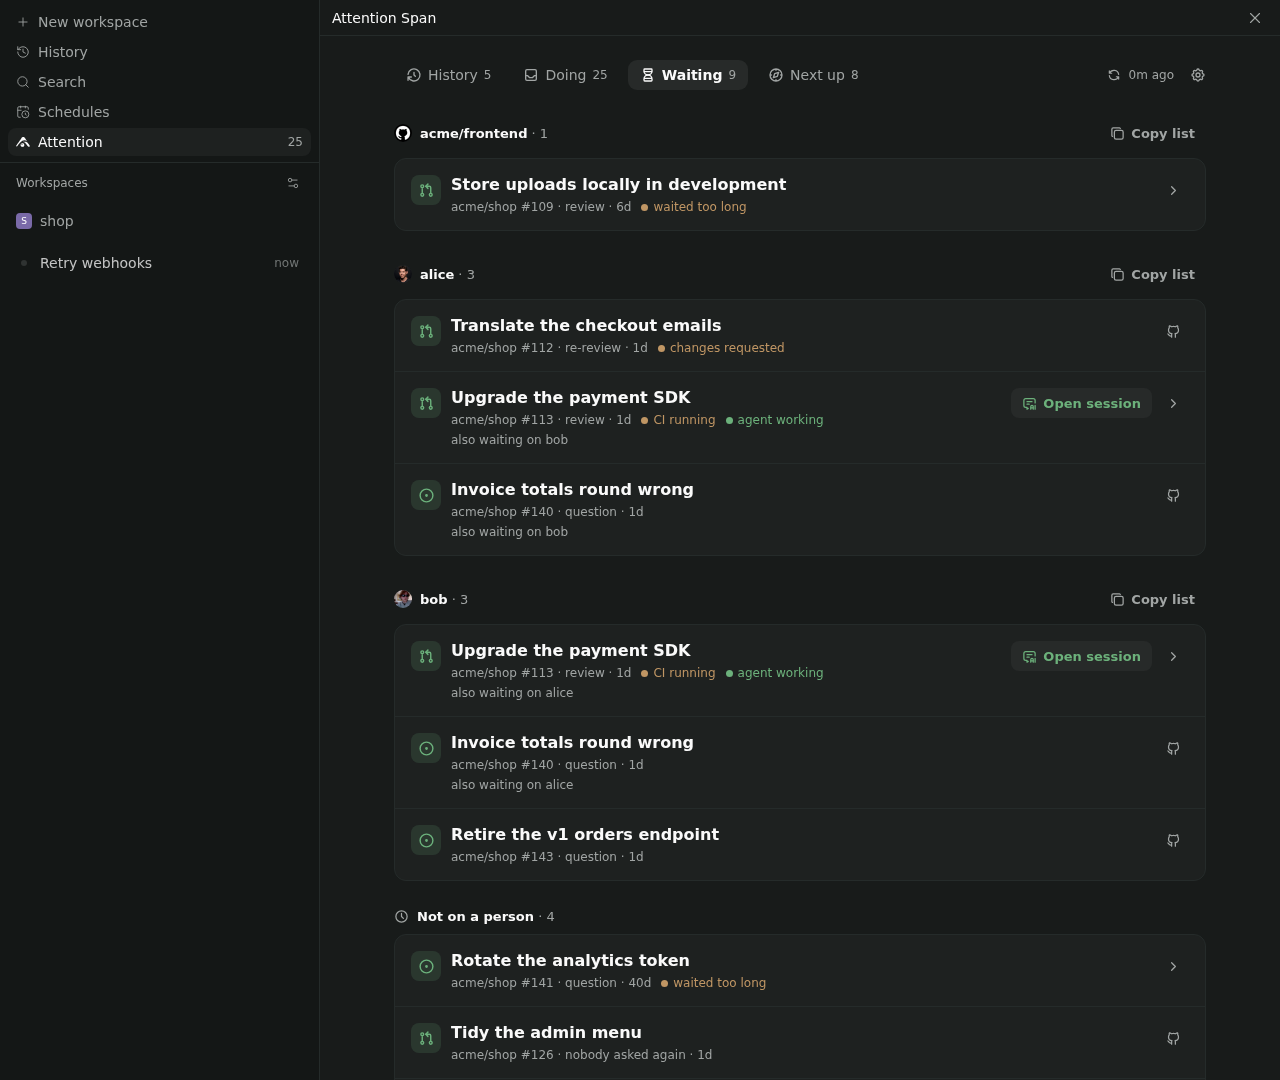
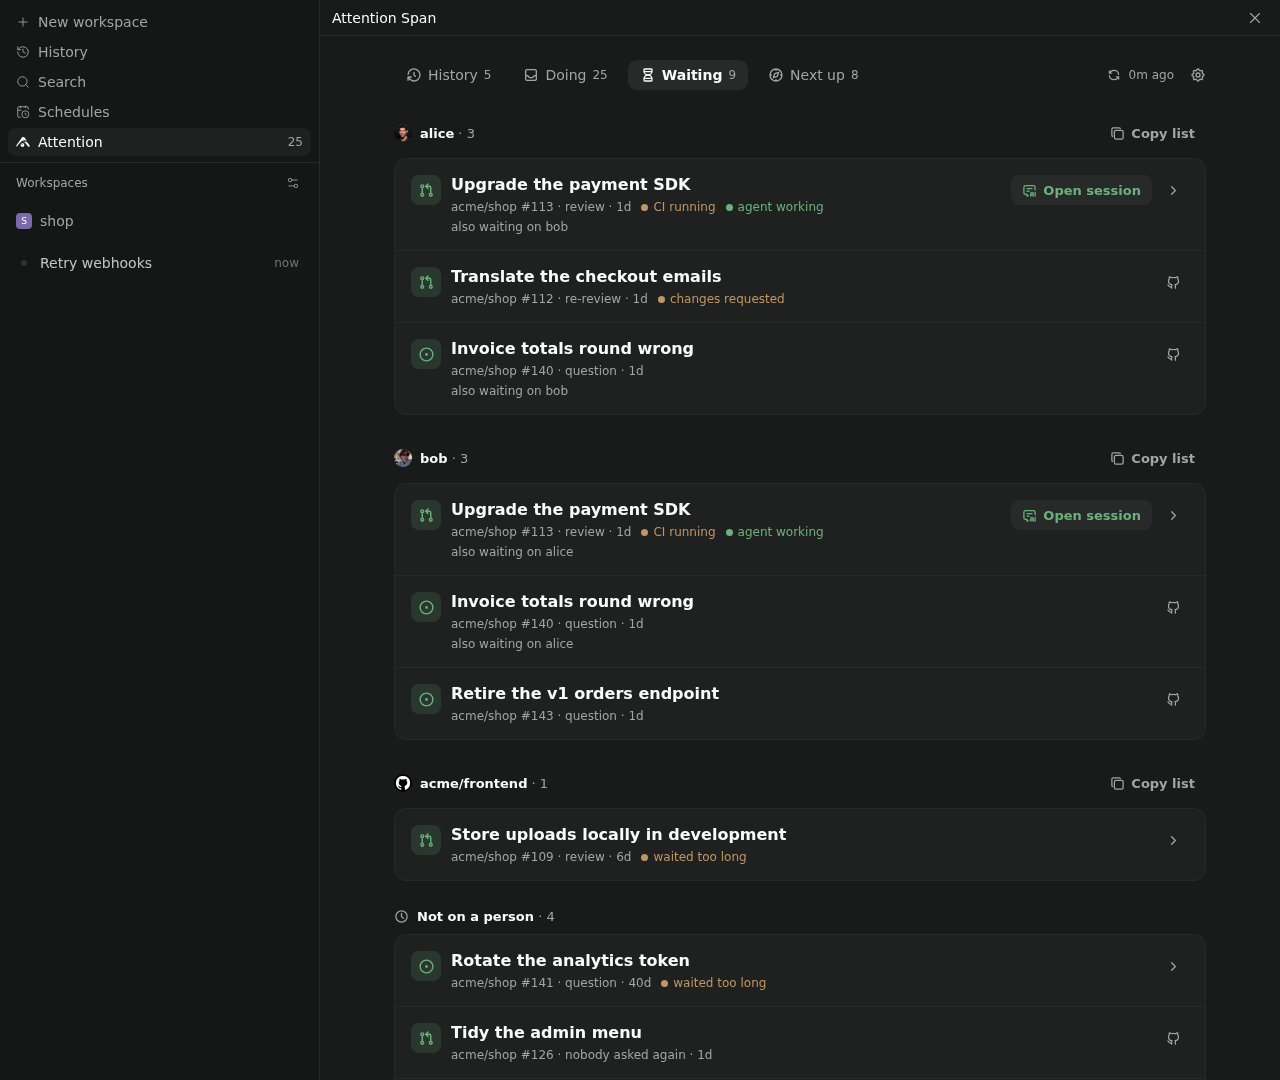
Order Waiting by who blocks the most, sessions first; skimmable nudges [WAI-01, WAI-03]
Groups now put whoever blocks the most items first, ties by the longest
wait, then requested bots, who can't be nudged, and "Not on a person"
last. In each group, work with a session that needs me leads, then one
that's working; a finished session I've seen doesn't lift it.

Copy list lines lead with why and how long, so they skim:
"- Review 2h: [title](url)".

From review: requested bot reviewers are now fetched (the query only
asked for users and teams, so bots were dropped), and a PR waiting on
CI with nobody asked no longer says "nobody asked again". A test pins
that dismissing a too-long item in Doing hides it from Waiting too.

diff --git a/client/attention-screen.tsx b/client/attention-screen.tsx
@@ -4,7 +4,7 @@ import { Markdown, Modal, TextInput, useToast } from "@getpaseo/plugin/client/ui
 import { useQuery, useQueryClient } from "@tanstack/react-query";
 import { type ReactNode, useState } from "react";
 import { Pressable, ScrollView, Text, View } from "react-native";
-import { type ActionId, type AgentSummary, type AttentionView, type Chip, type FailingChecks, type Item, itemSessions, looseSessions, type NextUpIssue, type Reviewer, type Section, type SectionId, SECTIONS, type SubRow, TAB_FEED, type TabId, type Target, type WaitingGroup, type WaitingOn } from "../shared/attention";
+import { type ActionId, type AgentSummary, type AttentionView, type Chip, type FailingChecks, type Item, itemSessions, liftActive, looseSessions, type NextUpIssue, type Reviewer, type Section, type SectionId, SECTIONS, type SubRow, TAB_FEED, type TabId, type Target, type WaitingGroup, type WaitingOn } from "../shared/attention";
 import { type AttentionConfig, nextUpSources, type SessionKind } from "../shared/config";
 import { ago, linkList, repoLabel } from "../shared/format";
 import { ACTION_SESSION, renderPrompt } from "../shared/prompts";
@@ -552,6 +552,13 @@ function waitChips(item: Item, inWaiting: boolean): Chip[] {
   ];
 }
 
+// "Review 2h", "Question 3d": why and how long, to lead a line in a nudge [WAI-03].
+function nudgeLead(item: Item): string | undefined {
+  if (!item.wait) return undefined;
+  const { reason, since } = item.wait;
+  return reason ? `${reason[0].toUpperCase()}${reason.slice(1)} ${ago(since)}` : ago(since);
+}
+
 const samePerson = (a: WaitingOn, b: WaitingOn) => a.team === b.team && a.login.toLowerCase() === b.login.toLowerCase();
 
 // In Waiting, a card sits under one of whom it waits on: its group.
@@ -973,8 +980,8 @@ function Card({ items, actions, group }: { items: Item[]; actions: Actions; grou
   );
 }
 
-// Waiting by who it waits on, each with a list to copy for a nudge; a bot gets none, as there's nobody to send it to.
-// Last, the work no person holds up [WAI-01, WAI-03].
+// Waiting by who it waits on, each with a list to copy for a nudge, oldest first; a bot gets none, as there's nobody to send
+// it to. Last, the work no person holds up. Cards with an active session lead their group [WAI-01, WAI-03].
 function Waiting({ groups, actions }: { groups: WaitingGroup[]; actions: Actions }) {
   const styles = useStyles();
   const copy = useCopy();
@@ -983,7 +990,7 @@ function Waiting({ groups, actions }: { groups: WaitingGroup[]; actions: Actions
     const { who, items } = group;
     const links = `${items.length} link${items.length === 1 ? "" : "s"}`;
     const nudge = (login: string) =>
-      copy(linkList(items.map((item) => ({ ...item, note: [item.wait?.reason, item.wait && ago(item.wait.since)].filter(Boolean).join(", ") }))), `Copied ${links} for ${login}`);
+      copy(linkList(items.map((item) => ({ ...item, lead: nudgeLead(item) }))), `Copied ${links} for ${login}`);
     return (
       <View key={who ? `${who.team ? "team" : "user"}:${who.login.toLowerCase()}` : "nobody"}>
         <SectionHeader
@@ -996,7 +1003,7 @@ function Waiting({ groups, actions }: { groups: WaitingGroup[]; actions: Actions
             ) : null
           }
         />
-        <Card items={items} actions={actions} group={group} />
+        <Card items={liftActive(items, actions.agents)} actions={actions} group={group} />
       </View>
     );
   });

diff --git a/server/view.test.ts b/server/view.test.ts
@@ -1,5 +1,5 @@
 import { describe, expect, it } from "vitest";
-import type { Attention, Item, NextUpIssue, WaitingOn } from "../shared/attention";
+import { type AgentSummary, type Attention, type Item, liftActive, type NextUpIssue, type WaitingOn } from "../shared/attention";
 import { AttentionConfig } from "../shared/config";
 import { renderPrompt } from "../shared/prompts";
 import { applyPending, buildView, doneItem, isPending, type Pending, SETTLE_MS, waitingGroups } from "./view";
@@ -59,7 +59,7 @@ describe("waiting", () => {
   });
   const groups = (items: Item[]) => waitingGroups(items).map((group) => [group.who?.login ?? null, group.items.map((i) => i.key)]);
 
-  it("WAI-01: groups by who it waits on, longest wait first, each one's work oldest first, and the rest last", () => {
+  it("WAI-01: groups by who it waits on, whoever blocks the most first, ties by longest wait, each one's work oldest first, and the rest last", () => {
     const items = [
       waiting("a", "wait_review", "2026-10-03", [who("bob")]),
       waiting("b", "wait_answer", "2026-10-02", [who("alice"), who("bob")]),
@@ -67,11 +67,33 @@ describe("waiting", () => {
       waiting("d", "wait_review", "2026-10-04", [who("acme/frontend", true)]),
     ];
     expect(groups(items)).toEqual([
-      ["alice", ["b"]],
       ["bob", ["b", "a"]],
+      ["alice", ["b"]],
       ["acme/frontend", ["d"]],
       [null, ["c"]],
     ]);
+  });
+
+  it("WAI-01: bots come after people and teams, however much they block, as they can't be nudged", () => {
+    const copilot = { ...who("copilot"), bot: true };
+    const items = [waiting("a", "wait_review", "2026-10-01", [copilot]), waiting("b", "wait_review", "2026-10-02", [copilot]), waiting("c", "wait_review", "2026-10-03", [who("bob")])];
+    expect(groups(items)).toEqual([
+      ["bob", ["c"]],
+      ["copilot", ["a", "b"]],
+    ]);
+  });
+
+  it("WAI-01: work with a session that needs me leads, then one that's working; a seen, finished one stays put", () => {
+    const agent = (itemKey: string, status: string, requiresAttention: boolean): AgentSummary => ({ id: itemKey, itemKey, status, requiresAttention, title: null, workspaceId: null, lastActivityAt: null });
+    const items = ["a", "b", "c", "d"].map((key) => waiting(key, "wait_review", "2026-10-01"));
+    const agents = [agent("b", "idle", false), agent("c", "running", false), agent("d", "idle", true)];
+    expect(liftActive(items, agents).map((i) => i.key)).toEqual(["d", "c", "a", "b"]);
+  });
+
+  it("WAI-01, ATT-08: dismissing work that waited too long in Doing hides it from Waiting too", () => {
+    const overdue = { ...waiting("a", "too_long", "2026-10-01", [who("bob")]), othersActivityAt: "2026-10-01T00:00:00Z" };
+    const view = buildView(attention([overdue]), [], { a: { at: "2026-10-02T00:00:00Z", section: "too_long" } }, meta);
+    expect(view.waiting).toEqual([]);
   });
 
   it("WAI-01: someone tagged by another spelling of their name is one person; a team is apart from a person of its name", () => {

diff --git a/server/view.ts b/server/view.ts
@@ -85,8 +85,9 @@ export function isDismissed(item: Item, dismissed: State["dismissed"]): boolean 
   return !!entry && entry.section === item.section && item.othersActivityAt <= entry.at;
 }
 
-// Waiting by who it waits on, so I know whom to nudge: whoever has waited longest first, each one's work oldest first, and
-// last the work no person holds up. Waiting too long shows here too [WAI-01, WAI-03].
+// Waiting by who it waits on, so I know whom to nudge: whoever blocks the most first, ties by the longest wait, then bots, who
+// can't be nudged, and last the work no person holds up. Each one's work oldest first; the screen lifts work with an active
+// session. Waiting too long shows here too [WAI-01, WAI-03].
 export function waitingGroups(items: Item[]): WaitingGroup[] {
   const oldest = (list: Item[]) => list.map((item) => item.wait?.since ?? "").sort()[0] ?? "";
   const people = new Map<string, WaitingGroup>();
@@ -102,7 +103,13 @@ export function waitingGroups(items: Item[]): WaitingGroup[] {
   }
   const byWait = (a: Item, b: Item) => (a.wait?.since ?? "").localeCompare(b.wait?.since ?? "");
   const groups = [...people.values()].map((group) => ({ ...group, items: group.items.sort(byWait) }));
-  groups.sort((a, b) => oldest(a.items).localeCompare(oldest(b.items)) || a.who!.login.localeCompare(b.who!.login));
+  groups.sort(
+    (a, b) =>
+      Number(!!a.who!.bot) - Number(!!b.who!.bot) ||
+      b.items.length - a.items.length ||
+      oldest(a.items).localeCompare(oldest(b.items)) ||
+      a.who!.login.localeCompare(b.who!.login),
+  );
   return nobody.length ? [...groups, { items: nobody.sort(byWait) }] : groups;
 }
 

diff --git a/server/classify.ts b/server/classify.ts
@@ -185,9 +185,18 @@ export function classify({ data, details, config, now }: ClassifyInput): Attenti
     const changers = replied && !flags.ciPending ? bottom.latestReviews.nodes.filter((review) => review.state === "CHANGES_REQUESTED").map((review) => review.author) : [];
     const asked = bottom.reviewRequests.nodes.map((request) => requested(request.requestedReviewer));
     const waitingOn = waits ? reviewers([...changers, ...asked].filter(isOther), waitingSince) : [];
-    // Why it waits, where the chips don't already say: approved ones say so, and so do the rules that block them [WAI-01].
+    // Why it waits, where the chips don't already say: approved ones say so, so do the rules that block them, and so does CI
+    // running when nobody's on it [WAI-01].
     const reason =
-      waitingOn.length > 0 ? (replied ? "re-review" : "review") : rulesBlocked || s.approved ? undefined : bottom.reviewRequests.nodes.length > 0 ? "review" : "nobody asked again";
+      waitingOn.length > 0
+        ? replied
+          ? "re-review"
+          : "review"
+        : rulesBlocked || s.approved || s.ciPending
+          ? undefined
+          : bottom.reviewRequests.nodes.length > 0
+            ? "review"
+            : "nobody asked again";
 
     const chips: Chip[] = [];
     if (bottom.isDraft && s.stale) chips.push(chip(`untouched ${ago(bottom.updatedAt, now)}`, "warn"));

diff --git a/shared/attention.ts b/shared/attention.ts
@@ -268,6 +268,17 @@ export function matchSessions(agents: AgentSummary[], keys: string[]): AgentSumm
     .sort((a, b) => Number(b.requiresAttention) - Number(a.requiresAttention) || (b.lastActivityAt ?? "").localeCompare(a.lastActivityAt ?? ""));
 }
 
+// Work in Waiting with an active session first: one that needs me, then one that's working. A finished session I've seen
+// doesn't lift it. Otherwise the order stays as it was [WAI-01].
+export function liftActive(items: Item[], agents: AgentSummary[]): Item[] {
+  const rank = (item: Item) => {
+    const agent = itemSessions(agents, item)[0];
+    if (agent?.requiresAttention) return 0;
+    return agent?.status === "running" || agent?.status === "initializing" ? 1 : 2;
+  };
+  return items.map((item) => ({ item, rank: rank(item) })).sort((a, b) => a.rank - b.rank).map(({ item }) => item);
+}
+
 // Sessions none of the item's actions would have started: no kind saved, or the action's gone, like Fix CI once checks pass.
 // They lead the sheet; the rest sit in their action's line [SES-03].
 export function looseSessions(sessions: AgentSummary[], kinds: SessionKind[]): AgentSummary[] {

diff --git a/server/classify.test.ts b/server/classify.test.ts
@@ -322,7 +322,15 @@ describe("waiting", () => {
     expect(unseen.wait?.reason).toBe("review");
   });
 
-  it("WAI-03: a requested bot is marked, so there's no list to send it", () => {
+  it("WAI-01: while CI runs and nobody is asked, CI running says why, not a missing request", () => {
+    const commented = { nodes: [{ author: alice, state: "COMMENTED", submittedAt: daysAgo(1) }] };
+    const [item] = run({ mine: [pr(1, { latestReviews: commented }, "PENDING")] }).items;
+    expect(item).toMatchObject({ section: "wait_ci", wait: { reason: undefined } });
+    expect(chips(item)).toContain("CI running");
+  });
+
+  it("WAI-03: a requested bot is fetched and marked, so there's no list to send it", () => {
+    expect(searchQuery(LIVE_SEARCHES)).toContain("... on Bot { ...author }");
     const copilot = { __typename: "Bot", login: "copilot", avatarUrl: "https://avatars/c" };
     const [item] = run({ mine: [pr(1, { reviewRequests: { nodes: [{ requestedReviewer: copilot }] } })] }).items;
     expect(item.waitingOn).toEqual([{ login: "copilot", avatarUrl: "https://avatars/c", team: false, bot: true, since: daysAgo(1) }]);

diff --git a/shared/format.ts b/shared/format.ts
@@ -15,9 +15,10 @@ export function daysSince(iso: string, now: Date): number {
   return (now.getTime() - new Date(iso).getTime()) / 86_400_000;
 }
 
-// A Markdown bullet list of links, for pasting a week's work into a report [HIS-03], or a nudge, each with a note [WAI-03].
-export function linkList(items: { title: string; url: string; note?: string }[]): string {
-  return items.map(({ title, url, note }) => `- [${title.replace(/[[\]\\]/g, "\\$&")}](${url})${note ? ` — ${note}` : ""}`).join("\n");
+// A Markdown bullet list of links, for pasting a week's work into a report [HIS-03], or a nudge, each led by why and how
+// long so it skims down the left edge: "- Review 2h: [title](url)" [WAI-03].
+export function linkList(items: { title: string; url: string; lead?: string }[]): string {
+  return items.map(({ title, url, lead }) => `- ${lead ? `${lead}: ` : ""}[${title.replace(/[[\]\\]/g, "\\$&")}](${url})`).join("\n");
 }
 
 // Where a card's item lives: "app" for my own repos, "acme/app" for anyone else's, so same-named repos don't blur [ATT-05, NXT-10].

diff --git a/shared/format.test.ts b/shared/format.test.ts
@@ -15,8 +15,8 @@ describe("linkList", () => {
     expect(linkList([{ title: "[WIP] Fix a\\b", url: "https://github.com/acme/app/pull/1" }])).toBe("- [\\[WIP\\] Fix a\\\\b](https://github.com/acme/app/pull/1)");
   });
 
-  it("WAI-03: notes why and how long each has waited, for a nudge", () => {
-    expect(linkList([{ title: "Retire v1", url: "https://github.com/acme/app/issues/2", note: "question, 3d" }])).toBe("- [Retire v1](https://github.com/acme/app/issues/2) — question, 3d");
+  it("WAI-03: leads with why and how long each has waited, for a nudge", () => {
+    expect(linkList([{ title: "Retire v1", url: "https://github.com/acme/app/issues/2", lead: "Question 3d" }])).toBe("- Question 3d: [Retire v1](https://github.com/acme/app/issues/2)");
   });
 });
 

diff --git a/server/queries.ts b/server/queries.ts
@@ -65,7 +65,7 @@ const FRAGMENTS: Record<string, string> = {
   assignees(first: 10) { nodes { login } }
   closingIssuesReferences(first: 5) { nodes { number title url repository { nameWithOwner } } }
   commits(last: 1) { nodes { commit { committedDate statusCheckRollup { state } } } }
-  reviewRequests(first: 5) { nodes { requestedReviewer { ... on User { ...author } ... on Team { __typename combinedSlug avatarUrl } } } }
+  reviewRequests(first: 5) { nodes { requestedReviewer { ... on User { ...author } ... on Bot { ...author } ... on Team { __typename combinedSlug avatarUrl } } } }
   latestReviews(first: 10) { nodes { author { ...author } state submittedAt } }
   reviewThreads(last: 30) {
     nodes {

diff --git a/docs/architecture.md b/docs/architecture.md
@@ -50,7 +50,7 @@ The tabs tell the story of my work, left to right: what I finished, what needs m
 |---|---|
 | History | The last `historyWeeks` (default 4) by week, newest first, in the device's time zone: issues assigned to me that closed, with the PRs that closed them, and my other merged PRs [HIS-01]. Per week, a collapsed "Reviewed (n)" lists others' merged PRs I reviewed [HIS-02]. The copy icon on a week's heading copies its finished items, not the reviews, as a Markdown list of links; an issue and the PRs that closed it are one line, linking the issue [HIS-03]. |
 | Doing | The sections below |
-| Waiting | My work where someone else has the next move [WAI-01]: *Waiting for review* (once a person or team is asked, or someone else has reviewed; or approved but blocked by a repo rule [PRS-13]), *Waiting for the reviewer* (after I replied or pushed), *CI running*, *Questions I asked* (threads where my comment is the last from a person; bots don't count): on my own issues however old, on others' only while my comment is within `mentionDays` [ATT-11]. Each shows who it waits on, never a guess [WAI-02]: on a PR, the reviewers currently requested and, after I replied, whoever requested changes, but nobody when a repo rule blocks it; on a question, the people and teams my comments since the last answer tag, read from GitHub's rendered comments (`bodyHTML`), where only real accounts and teams I can see are linked, never in code; tags in quotes don't count, and only the last 10 comments are read. Waiting groups it all by who it waits on, not by those reasons [WAI-01]: one group per person or team (a person tagged with other capitals is one), whoever's oldest item has waited longest first, each one's items oldest first, and last *Not on a person* for work nobody is on record for. Work waiting on several is under each, saying "also waiting on" the rest, and counts once in the tab. *Waiting too long* items show here too, flagged "waited too long". Each card says why it waits (review, re-review, question, or nobody asked again after a review that only commented; nothing where its chips say, like approved or blocked by repo rules) and since when. A group's **Copy list** copies its items as Markdown links, each with why and how long, for a nudge; a requested bot gets none [WAI-03]. Outside Waiting, as in *Waiting too long*, one person shows by name, several by picture, named on hover and in the sheet. |
+| Waiting | My work where someone else has the next move [WAI-01]: *Waiting for review* (once a person or team is asked, or someone else has reviewed; or approved but blocked by a repo rule [PRS-13]), *Waiting for the reviewer* (after I replied or pushed), *CI running*, *Questions I asked* (threads where my comment is the last from a person; bots don't count): on my own issues however old, on others' only while my comment is within `mentionDays` [ATT-11]. Each shows who it waits on, never a guess [WAI-02]: on a PR, the reviewers currently requested and, after I replied, whoever requested changes, but nobody when a repo rule blocks it; on a question, the people and teams my comments since the last answer tag, read from GitHub's rendered comments (`bodyHTML`), where only real accounts and teams I can see are linked, never in code; tags in quotes don't count, and only the last 10 comments are read. Waiting groups it all by who it waits on, not by those reasons [WAI-01]: one group per person or team (a person tagged with other capitals is one), whoever blocks the most items first, ties by whose oldest item has waited longest, then requested bots, who can't be nudged, and last *Not on a person* for work nobody is on record for. In each group, work with a session that needs me leads, then one that's working, then the rest, oldest first; a finished session I've seen doesn't lift it. Work waiting on several is under each, saying "also waiting on" the rest, and counts once in the tab. *Waiting too long* items show here too, flagged "waited too long". Each card says why it waits (review, re-review, question, or nobody asked again after a review that only commented; nothing where its chips say, like approved, blocked by repo rules, or CI running with nobody asked) and since when. A group's **Copy list** copies its items oldest first as a Markdown list, each line led by why and how long ("- Review 2h: [title](url)"), for a nudge; a requested bot gets none [WAI-03]. Outside Waiting, as in *Waiting too long*, one person shows by name, several by picture, named on hover and in the sheet. |
 | Next up | *Assigned to you* [NXT-06], then *Unclaimed* [NXT-01] |
 
 Every card in every tab is the same component, `CardRow` in `client/card.tsx` [ATT-05]: a tinted mark for what it is, a title of at most two lines, then "repo #number", when it happened and signal chips, then content only some lists have (tags, a quote, a stack line), and its actions: on the right on desktop, labelled under the text on phones. A change on GitHub asks first in a `ConfirmBar` on the card [SAFE-01]. Tabs differ only in what they pass in: each maps its data to the card's mark, meta, actions and slots. Marks and signals take a tone, never a raw theme color, because some themes draw `accent` close to white.

diff --git a/.claude/skills/verify-plugin/SKILL.md b/.claude/skills/verify-plugin/SKILL.md
@@ -45,7 +45,7 @@ Never connect a browser, SDK client or script to the Paseo daemon that runs you 
    | `<layout>-doing-dismissed.png` | After dismissing the first row: the "Dismissed … · Undo" row |
    | `<layout>-history.png` | History by week, with Reviewed toggles |
    | `<layout>-history-reviewed.png` | History with the newest Reviewed list open |
-   | `<layout>-waiting.png` | Waiting by who it waits on: acme/frontend (its too-long PR, flagged "waited too long"), alice, bob, then "Not on a person" last. Each heading has Copy list (icon-only on phones). Cards say why and how long ("re-review · 1d"); work on several people is under each with "also waiting on …". Each card shows the GitHub button instead of ›, its sheet's only action besides the muted start line, except "Upgrade the payment SDK" (its agent is working, so Open session and ›) and the too-long ones (their sheet also has Dismiss) |
+   | `<layout>-waiting.png` | Waiting by who it waits on, whoever blocks the most first: alice and bob (three each), acme/frontend (its too-long PR, flagged "waited too long"), then "Not on a person" last. In each group "Upgrade the payment SDK" (agent working) leads. Each heading has Copy list (icon-only on phones). Cards say why and how long ("re-review · 1d"); work on several people is under each with "also waiting on …". Each card shows the GitHub button instead of ›, its sheet's only action besides the muted start line, except "Upgrade the payment SDK" (its agent is working, so Open session and ›) and the too-long ones (their sheet also has Dismiss) |
    | `<layout>-waiting-copied.png` | After Copy list on alice: the "Copied 3 links for alice" toast. `<layout>-waiting-clipboard.txt` holds what was copied |
    | `<layout>-waiting-sheet.png` | The sheet of "Invoice totals round wrong": alice and bob by name |
    | `<layout>-next-up.png` | Assigned, then all of Unclaimed. Cards: a tinted type badge, "acme/shop #160 · 40d old" (my own `me/tool` shows as "tool #165"), tags (P0 Urgent warm, P1 High accent), "PR by alice" on #161 |

diff --git a/OVERVIEW.md b/OVERVIEW.md
@@ -41,9 +41,9 @@ Anything that's sat in Waiting for more than three days shows up here too, under
 
 This is your work where someone else has the next move: the review you asked for, the reviewer looking again, CI running, or a question you asked that nobody's answered yet.
 
-It's grouped by who you're waiting on, whoever has waited longest first, and each item says why and for how long. Who counts only when it's on record: the reviewers you asked, the reviewer who asked for changes, or the people you tagged in your question. Work that waits on nobody in particular, like CI or a repo rule, sits at the bottom rather than under a guess. Work that waited too long shows here as well as in Doing.
+It's grouped by who you're waiting on, whoever blocks the most first, and each item says why and for how long. Work with a session that's running or needs you leads its group. Who counts only when it's on record: the reviewers you asked, the reviewer who asked for changes, or the people you tagged in your question. Work that waits on nobody in particular, like CI or a repo rule, sits at the bottom rather than under a guess. Work that waited too long shows here as well as in Doing.
 
-When someone needs a nudge, **Copy list** next to their name copies their items as Markdown links, oldest first, ready to paste into a message. Otherwise there's nothing to do here. That's the point. It's tracked, so you can stop holding it in your head.
+When someone needs a nudge, **Copy list** next to their name copies their items oldest first, one line each like "Review 2h: [title](link)", ready to paste into a message. Otherwise there's nothing to do here. That's the point. It's tracked, so you can stop holding it in your head.
 
 ![Waiting](docs/screenshots/desktop-dark-waiting.png)
 
